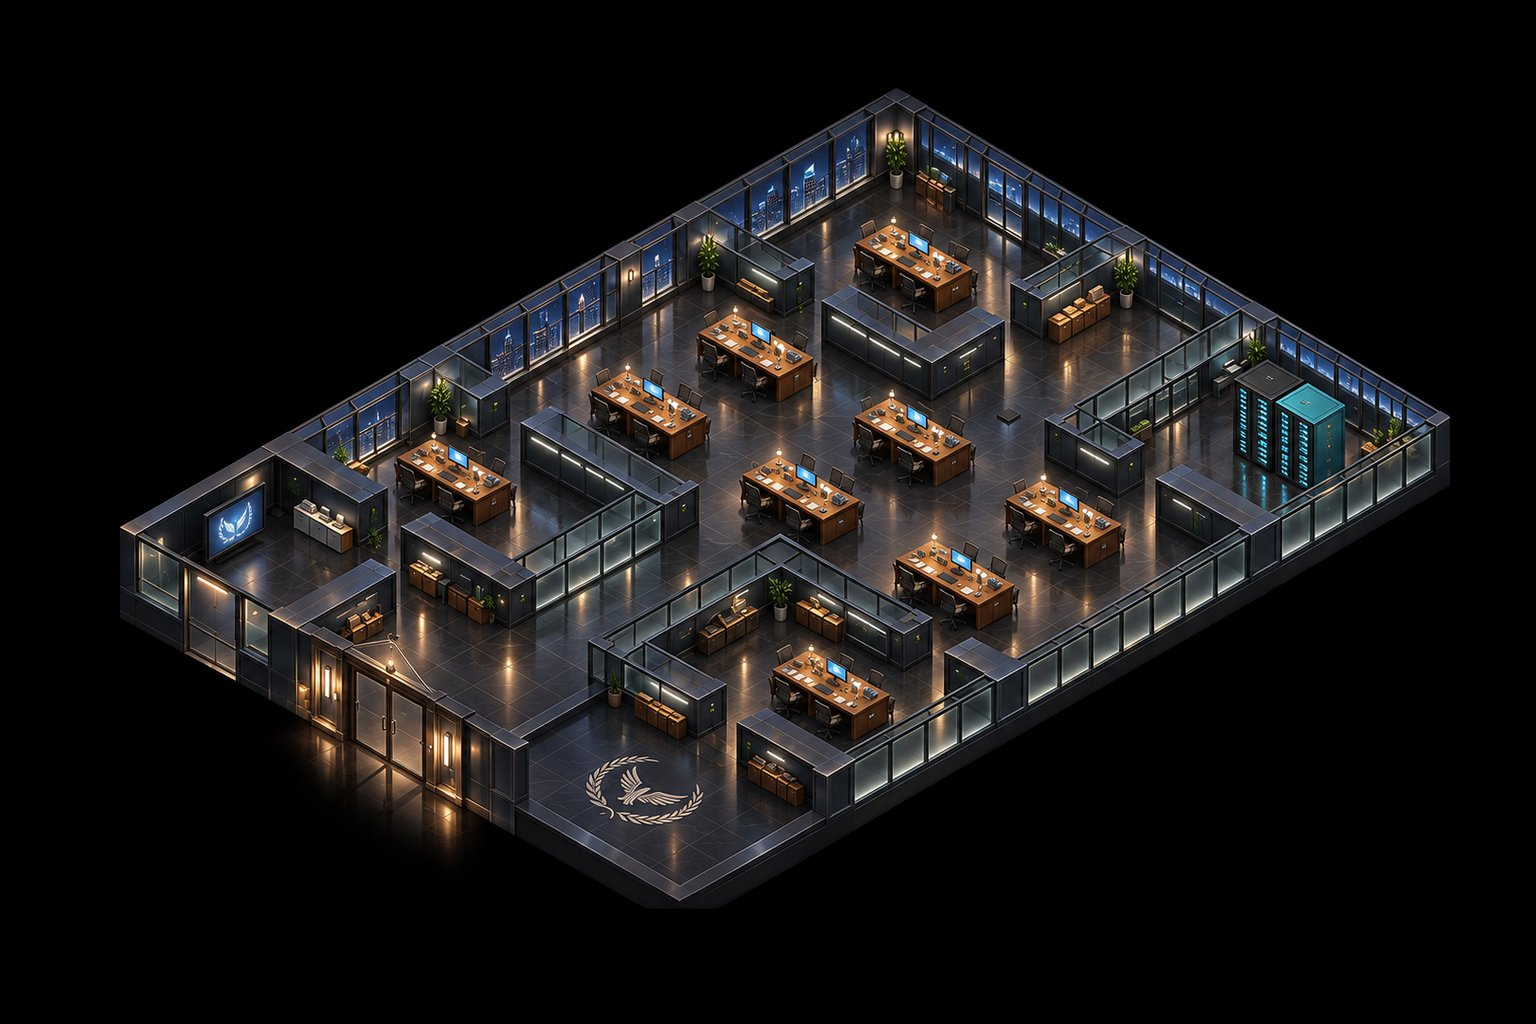
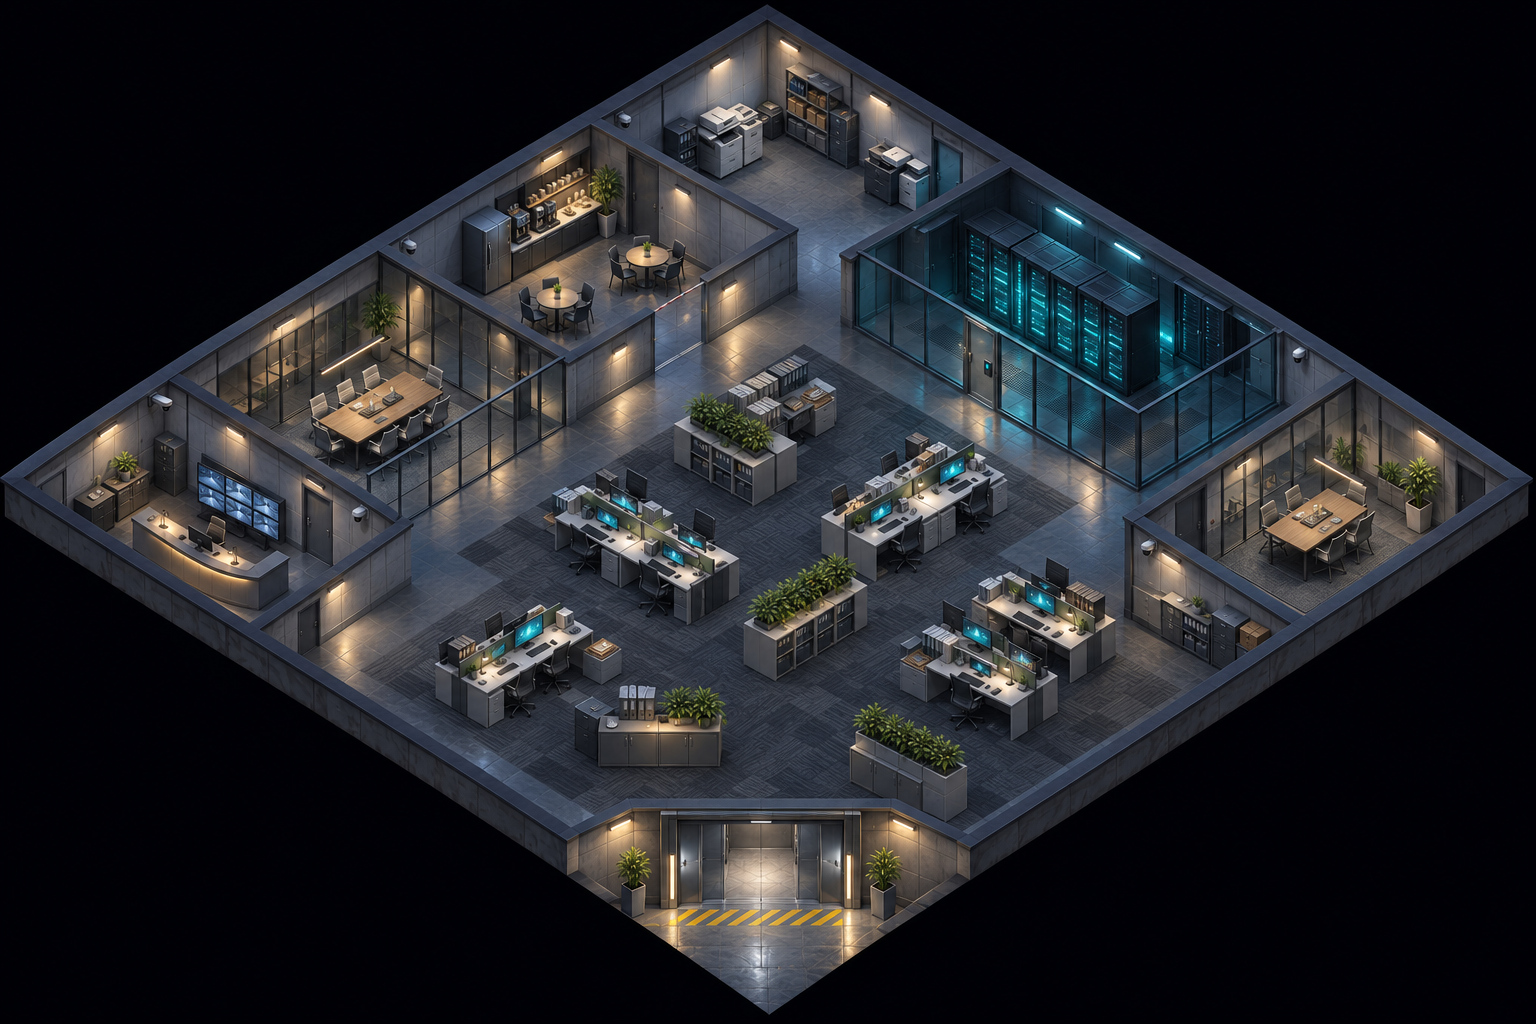
v0.25.0: redesigned maps for story stages 1 and 3
Warehouse and office art applied with collision, doors, furniture and
projection traced from the images; guards and cameras re-laid.

Claude-Session: https://claude.ai/code/session_01YWSFXRBaK3zkDDX76dUHdx

diff --git a/public/index.html b/public/index.html
@@ -655,11 +655,11 @@ var OPD={
 var RULES='<li>바닥을 탭하면 이동, 적을 탭하면 주 행동을 쓴다. 다른 행동은 아래 타일에서 고르고, 고른 채로도 바닥을 탭하면 이동한다.</li><li>사거리 밖이면 요원이 알아서 접근한 뒤 쏜다.</li><li>호박색 빛이 경비병의 시야다. 앉으면 안쪽 짙은 영역에서만 들킨다.</li>';
 var MIS=[
 {title:'혼자 남은 사람',code:'MISSION 01 // RAVEN',copy:'들어간 적<br>없는 걸로.',pre:'항구 3번 창고. 인질 한 명. 레이븐 혼자 간다.',post:['인질은 살렸다.','근데 경비가 너무 많았다. 누가 흘렸다.'],img:'p_raven.jpg',
- goal0:'창고 안쪽의 인질을 구출하라',goal1:'인질과 함께 탈출 지점으로',bg:'bg1.jpg',sk:0.5,wake:60,opaque:'#C',hts:{'#':48,'C':41},
- proj:[40.36966199438018,-42.60500456006069,935,21.18895698200694,21.949252490986424,165,-0.0017002562725694592,-0.0006548161911986566,1],
- MAP:["############","#....#.....#","#....#.....#","#....#.....#","#.CC.###.###","#..........#","#..CC..CC..#","#..........#","####.####..#","#.......#..#","#.CC....#..#","#.......C..#","#..####....#","#.....#.CC.#","#.....#....#","###.###.####","#..........#","#.CC...CC..#","#..........#","############"],
- ops:[{id:'raven',x:1,y:18}],exit:[[1,18]],hostage:{x:8,y:2},
- guards:[{wps:[[5,16],[9,16]]},{wps:[[1,9],[7,9]]},{wps:[[10,9],[10,14]]},{wps:[[1,7],[10,7],[10,5],[1,5]]},{wps:[[6,1],[10,1]]},{wps:[[10,18]],faces:[-HP,-PI*0.75]}],
+ goal0:'창고 안쪽의 인질을 구출하라',goal1:'인질과 함께 탈출 지점으로',bg:'bg1.jpg',sk:0.44,wake:60,opaque:'#',hts:{'#':46,'C':22,'X':40},
+ proj:[36.959282749, -36.331447066, 768.0, 22.803875727, 22.770618448, 54.0, 0.000440241, 0.000377254, 1.0],
+ MAP:["#####################", "#CCCCC#C.C#.....#...#", "#C....#C..#.....#...#", "#.....#...#.....#.CC#", "#####.###.##.####...#", "#CCC#...........#...#", "#C..#...CC.CCC..#...#", "#C..#...CC.CCC..#.###", "#CC.....CC.CC.......#", "#...#......CC...CCC.#", "##.##..CC..CC...CCC.#", "#...#..CC..CC..CCC..#", "#C..#..CC..CC.......#", "#...#..CC.........C.#", "##.##..CC.CC.....CC.#", "#...................#", "#######............##", "#CC.C.#............##", "#C.......C..CC......#", "#C.CC.#..CC.CC..##..#", "#####################"],
+ ops:[{id:'raven',x:18,y:18}],exit:[[18,18],[18,19],[19,18],[19,19]],hostage:{x:13,y:1},
+ guards:[{wps:[[5,5],[5,13]]},{wps:[[7,5],[15,5]]},{wps:[[9,9],[9,15]]},{wps:[[14,6],[14,9]]},{wps:[[13,13]],faces:[3.14,-1.57],ft:5},{wps:[[14,5]],faces:[1.57,3.14],ft:5}],
  brief:'<ul>'+RULES+'<li>맨손 제압은 60초 뒤 깨어난다. 나이프는 사살이다. 둘 다 뒤나 옆에서만 된다.</li><li>쓰러진 적이 발견되면 경보다. 운반해서 숨겨라. 구출한 인질은 몸을 낮추고 따라오지만, 가까이서는 들킨다.</li></ul>'},
 {title:'원거리 지원',code:'MISSION 02 // RAVEN + VIPER',copy:'탑 위는<br>바이퍼 몫.',pre:'산길 검문소. 통신 장비만 끊으면 된다. 문제는 감시탑인데, 거긴 레이븐 손이 안 닿는다.',post:['통신 끊겼다.','이제 저쪽도 우리가 있다는 걸 안다.'],img:'p_viper.jpg',
  goal0:'초소의 통신 장비를 파괴하라',goal1:'두 명 모두 북쪽 도로로 탈출',bg:'bg2.jpg',sk:0.44,wake:90,opaque:'#CRT',hts:{'R':30,'#':38,'C':26,'B':22,'T':160,'X':40},
@@ -669,9 +669,11 @@ var MIS=[
  guards:[{pos:[5,9],tower:true,faces:[HP,0,-HP],ft:4.5},{wps:[[6,12]],faces:[0]},{wps:[[9,12]],faces:[PI]},{wps:[[8,2],[8,6]]},{wps:[[12,8]],faces:[PI,-HP]},{wps:[[3,15],[12,15]]},{wps:[[2,7],[2,12]]}],
  brief:'<ul>'+RULES+'<li>맨 아래 카드로 요원을 바꾼다. 바이퍼의 저격은 사거리 10칸, 조준 1.5초, 탄 3발.</li><li>감시탑 초병은 엄폐물 너머까지 본다. 저격으로만 처리된다.</li><li>플랜에서 레이븐의 제압과 바이퍼의 저격을 함께 예약하면 같은 순간에 실행된다.</li></ul>'},
 {title:'눈이 되는 자',code:'MISSION 03 // RAVEN + GLITCH',copy:'카메라부터<br>재운다.',pre:'헤일로스 위장 법인 사무실. 서버실까지 카메라가 석 대다. 글리치가 끄면 레이븐이 들어간다.',post:['서버 털었다.','명단 맨 위에 우리 이름이 있더라.'],img:'p_glitch.jpg',
- goal0:'서버실의 데이터를 탈취하라',goal1:'두 명 모두 정문 로비로 복귀',bg:'bg3.jpg',sk:0.44,wake:90,opaque:'#',hts:{'#':40,'C':22,'X':70},proj:[36.80598045992676, -35.27835330454804, 896.402394106814, 20.160877411274985, 20.77576903249952, 132.0073664825046, 0.0016096926293314377, -0.0010837434439587327, 1.0],MAP:["################", "#.........#K##.#", "#.CCC##C..#.#X.#", "#.CCC.#C..#....#", "#.....#...#....#", "#######...#..###", "#..............#", "#.CCC.CCC.CCC..#", "#..............#", "#........K.....#", "#.CCC.CCC.CCC..#", "#..............#", "#.####..#####.##", "#....#..#CC....#", "#CC..#..#C.CCC.#", "#....#..#..CCC.#", "#.####..###.##.#", "#C.CCC...CC..C.#", "#..C...........#", "#..C..........K#", "####....##.....#", "################"],
- ops:[{id:'raven',x:5,y:20},{id:'glitch',x:6,y:20}],exit:[[4,20],[5,20],[6,20],[7,20],[4,19],[5,19],[6,19],[7,19]],objective:{x:13,y:2,use:[13,3],label:'서버',verb:'탈취',time:4},
- guards:[{wps:[[1,8],[14,8],[14,9],[1,9]]},{wps:[[1,6],[9,6]]},{wps:[[14,11],[1,11]]},{wps:[[6,14]],faces:[-1.57,3.14]},{wps:[[14,13]],faces:[1.57,3.14]},{wps:[[11,1]],cam:true,faces:[1.57,0],ft:6},{wps:[[9,9]],cam:true,faces:[-1.57,3.14],ft:5},{wps:[[14,19]],cam:true,faces:[3.14,-2.5],ft:5}],
+ goal0:'서버실의 데이터를 탈취하라',goal1:'두 명 모두 정문 로비로 복귀',bg:'bg3.jpg',sk:0.44,wake:90,opaque:'#',hts:{'#':46,'C':22,'X':40},
+ proj:[37.423947637, -36.329930543, 768.0, 23.351134597, 23.317160071, 54.0, 0.000743943, 0.000680558, 1.0],
+ MAP:["#####################", "#CC.C.#.CCCXCCC##...#", "#C....#.......C##.C.#", "#C....#........##.C.#", "#####.####.######.C.#", "#...#...........#...#", "#C.C#...........#.CC#", "#C.........CC...#.###", "#CC.#...CC.CC.......#", "#...#...C..CC..CCC..#", "#####..........CCC..#", "#...#.......CC......#", "#.C.#...CCC.CC......#", "#.C.....CCC......CC.#", "#...#...............#", "#...#...............#", "#######..CC..C.....##", "#.....#..CC.CC.....##", "#...................#", "#.CCC.#.........##..#", "#####################"],
+ ops:[{id:'raven',x:18,y:18},{id:'glitch',x:19,y:18}],exit:[[18,18],[18,19],[19,18],[19,19]],objective:{x:11,y:1,use:[11,2],label:'서버',verb:'탈취',time:4},
+ guards:[{wps:[[5,8],[5,15]]},{wps:[[7,10],[7,15]]},{wps:[[14,6],[14,10]]},{wps:[[13,14]],faces:[3.14,-1.57],ft:5},{wps:[[7,2]],cam:true,faces:[-0.9,1.5],ft:12},{wps:[[1,15]],cam:true,faces:[0,-0.9],ft:6}],
  brief:'<ul>'+RULES+'<li>파란 빛은 감시카메라다. 앉아도 소용없고, 제압도 안 된다.</li><li>글리치의 <b>해킹</b>: 카메라를 탭하면 6칸 안에서 25초간 끈다. 벽 너머도 된다.</li><li>글리치의 <b>교란</b>: 바닥을 탭하면 드론이 소리를 내 4칸 안의 적을 그쪽으로 부른다.</li><li>카메라는 총으로 부술 수도 있다. 권총은 시끄럽다.</li></ul>'},
 {title:'길을 내는 자',code:'MISSION 04 // VIPER + BRICK',copy:'정문은<br>안 쓴다.',pre:'폐광 안쪽에 무기고. 길목마다 사람이 서 있다. 그래서 브릭이 벽으로 간다.',post:['무기고 날렸다.','소리가 좀 컸다.'],img:'p_brick.jpg',
  goal0:'무기고에 폭약을 설치하라',goal1:'두 명 모두 갱도 입구로 복귀',bg:'bg4.jpg',sk:0.44,wake:90,opaque:'RCW',hts:{'R':30,'C':22,'W':30,'X':40},proj:[34.32261999130425, -38.471547620494924, 845.5773331000529, 20.108173550584898, 20.189334253769353, 134.78270027808657, -0.0029330382205890243, 0.0007752523931072309, 1.0],MAP:["RRRRRRRRRRRRRRRR", "R......R.......R", "R......R....XC.R", "R..CC..W.......R", "R......R.......R", "RRR.RRRRRRR.RRRR", "R..............R", "R..CC......CC..R", "R..............R", "RRRRRR.RRRRWRRRR", "R......R.......R", "R......R..CC...R", "R......W.......R", "R......R.......R", "R...CC.R...C...R", "RRR.RRRRRRRR.RRR", "R..............R", "R..............R", "R.CC...CC...CC.R", "R..............R", "R..............R", "RRRRRRRRRRRRRRRR"],
@@ -738,7 +740,7 @@ mirage:{ch:[
 doc:{ch:[
  {b:5,drop:[4],t:'차트',copy:'못 살린 사람은<br>다 기억한다.',pre:'10년 전 사라진 선임 군의관의 차트가 병동에 있다. 사인이 고쳐져 있다.',post:['원본 차트를 찾았다.','죽은 게 아니다. 실려 나갔다.'],ol:'원본 차트',ov:'회수'},
  {b:1,drop:[0,4],t:'이송',copy:'살아 있으면<br>데리러 간다.',pre:'이송 기록은 통신기지에 남아 있다.',post:['기록을 떴다.','행선지는 항구 3번 창고.'],ol:'이송 기록',ov:'복사'},
- {b:0,drop:[2],t:'퇴원',copy:'이번엔<br>걸어서 나간다.',pre:'10년을 갇혀 있던 선임. 닥이 직접 데리고 나온다.',post:['선임은 제 발로 나왔다.','닥은 차트 맨 아래 칸에 "퇴원"이라고 썼다.']}],
+ {b:0,drop:[3],t:'퇴원',copy:'이번엔<br>걸어서 나간다.',pre:'10년을 갇혀 있던 선임. 닥이 직접 데리고 나온다.',post:['선임은 제 발로 나왔다.','닥은 차트 맨 아래 칸에 "퇴원"이라고 썼다.']}],
  end:[['왕진<br>왔습니다.','닥이 가방을 내려놓는다. "어디가 아픈지는 내가 찾아."'],['맥박이<br>빠르네.','손목에 손가락 두 개. 그녀가 웃는다. "이건 처방이 따로 없어."'],['오늘은<br>안 재운다.','마취 다트는 가방에 그대로 있었다. 아침까지.']]}
 };
 var SIDX={};
@@ -756,7 +758,7 @@ Object.keys(STORY).forEach(function(id){
     m.bc=['nokill','noinv','noload'][ci];m.story={id:id,ci:ci};SIDX[id].push(MIS.length);MIS.push(m);
   });
 });
-var VERSION='0.24.1';
+var VERSION='0.25.0';
 var PROG={c:{},s:{},b:{},end:{},g:{},n:{},pt:0,name:'',vol:1,all:false};
 try{var pj=JSON.parse(localStorage.getItem('s6prog')||'null');if(pj)for(var pk in pj)PROG[pk]=pj[pk];}catch(e){}
 function saveProg(){try{localStorage.setItem('s6prog',JSON.stringify(PROG));}catch(e){}}

diff --git a/tools/map/trace_story/sm.py b/tools/map/trace_story/sm.py
@@ -1,0 +1,48 @@
+import st,json
+from PIL import Image
+def blank(n):
+    c,r=st.CFG[n][:2];M=[['.']*c for _ in range(r)]
+    return M
+def put(M,cells,ch):
+    for (x,y) in cells:
+        if 0<=y<len(M) and 0<=x<len(M[0]):M[y][x]=ch
+def R(x0,y0,x1,y1):return [(x,y) for y in range(min(y0,y1),max(y0,y1)+1) for x in range(min(x0,x1),max(x0,x1)+1)]
+def border(M):
+    c,r=len(M[0]),len(M);put(M,R(0,0,c-1,0)+R(0,r-1,c-1,r-1)+R(0,0,0,r-1)+R(c-1,0,c-1,r-1),'#')
+def notch(M,k=35,door=((17,18),(18,17)),apron=((18,18),(18,19),(19,18),(19,19))):
+    c,r=len(M[0]),len(M)
+    for y in range(r):
+        for x in range(c):
+            if x+y>=k:M[y][x]='#'
+    put(M,door,'.');put(M,apron,'.')
+OUT={}
+def check(n):
+    o=OUT[n];M=o['MAP'];c,r=len(M[0]),len(M);seen=set();s=[o['start'][0]]
+    while s:
+        x,y=s.pop()
+        if (x,y) in seen or not(0<=x<c and 0<=y<r) or M[y][x] not in '.W':continue
+        seen.add((x,y));s+=[(x+1,y),(x-1,y),(x,y+1),(x,y-1)]
+    un=[(x,y) for y in range(r) for x in range(c) if M[y][x]=='.' and (x,y) not in seen]
+    return tuple(o['use']) in seen,len(seen),un
+def show(n,S=2,half=None):
+    M=[''.join(r) for r in OUT[n]['MAP']];print('\n'.join(M));print(check(n))
+    st.grid(n,'v%d'%n,S=S,MAP=M,lab=True)
+    im=Image.open('v%d.jpg'%n);W,H=im.size
+    im.crop((0,0,W,H//2+60)).save('v%d_a.jpg'%n,quality=80);im.crop((0,H//2-60,W,H)).save('v%d_b.jpg'%n,quality=80)
+# ---------- 1 warehouse
+M=blank(1);border(M);notch(M)
+put(M,R(1,4,4,4)+R(4,4,4,7)+R(4,9,4,14)+R(1,10,3,10)+R(1,14,3,14)+R(1,16,6,16)+R(6,16,6,19)+R(6,1,6,4)+R(6,4,8,4)+R(10,1,10,4)+R(10,4,15,4)+R(16,1,16,7)+R(18,7,19,7),'#')
+put(M,[(2,10),(2,14),(6,18),(12,4)],'.')
+put(M,R(7,10,8,14)+R(8,6,9,8)+R(11,6,12,8)+[(13,6),(13,7)]+R(11,9,12,12)+[(10,14),(11,14),(9,18),(9,19),(10,19)]+R(12,18,13,19)+R(16,9,17,11)+[(18,9),(18,10),(15,11),(17,14),(18,13),(18,14),(18,3),(19,3)],'C')
+put(M,[(1,18),(1,19),(3,19),(4,19),(1,17),(2,17),(4,17),(1,12),(1,5),(1,6),(1,7),(1,8),(2,5),(3,5),(2,8),(1,1),(1,2),(2,1),(3,1),(4,1),(5,1),(7,1),(7,2),(9,1)],'C')
+OUT[1]=dict(MAP=M,start=[(18,18)],use=(13,2),hostage=(13,1))
+# ---------- 3 office
+M=blank(3);border(M);notch(M)
+put(M,R(1,4,4,4)+R(4,4,4,6)+R(4,8,4,15)+R(1,10,3,10)+R(1,16,6,16)+R(6,16,6,19)+R(6,1,6,4)+R(6,4,15,4)+R(15,1,15,4)+R(16,1,16,7)+R(18,7,19,7),'#')
+put(M,[(4,13),(6,18),(10,4)],'.')
+put(M,[(8,8),(8,9),(9,8)]+R(8,12,10,13)+R(11,7,12,9)+R(12,11,13,12)+R(9,16,10,17)+R(15,9,17,10)+[(12,17),(13,16),(13,17),(17,13),(18,13),(2,19),(3,19),(4,19),(2,12),(2,13),(1,6),(1,7),(1,8),(3,6),(2,8),(1,1),(1,2),(2,1),(4,1),(1,3),(18,2),(18,3),(18,4),(18,6),(19,6)],'C')
+put(M,[(8,1),(9,1),(10,1),(12,1),(13,1),(14,1),(14,2)],'C');M[1][11]='X'
+OUT[3]=dict(MAP=M,start=[(18,18),(19,18)],use=(11,2),obj=(11,1))
+if __name__=='__main__':
+    import sys
+    for n in map(int,sys.argv[1:]):show(n)

diff --git a/tools/map/trace_story/st.py b/tools/map/trace_story/st.py
@@ -1,0 +1,35 @@
+import numpy as np
+from PIL import Image,ImageDraw,ImageFont,ImageFilter
+F=ImageFont.truetype('/usr/share/fonts/truetype/dejavu/DejaVuSans-Bold.ttf',13)
+def homog(src,dst):
+    A=[];b=[]
+    for (x,y),(u,v) in zip(src,dst):
+        A.append([x,y,1,0,0,0,-u*x,-u*y]);b.append(u);A.append([0,0,0,x,y,1,-v*x,-v*y]);b.append(v)
+    return [float(v) for v in np.linalg.solve(np.array(A,float),np.array(b,float))]+[1.0]
+# cols, rows, wall height, wall-top diamond T,L,R,B (outer edge)
+CFG={1:(21,21,46,(768,8),(5,482),(1530,482),(768,948)),
+     3:(21,21,46,(768,8),(5,490),(1530,490),(768,958)),
+     2:(21,21,0,(768,54),(5,528),(1530,528),(768,994)),
+     4:(21,21,46,(768,8),(5,482),(1530,482),(768,948)),
+     5:(21,21,46,(768,8),(5,482),(1530,482),(768,948))}
+def H(n):
+    c,r,h,T,L,R,B=CFG[n];s=lambda p:(p[0],p[1]+h);return homog([(0,0),(0,r),(c,0),(c,r)],[s(T),s(L),s(R),s(B)])
+def P(h,x,y,z=0,S=1):
+    w=h[6]*x+h[7]*y+1;return (S*(h[0]*x+h[1]*y+h[2])/w,S*((h[3]*x+h[4]*y+h[5])/w-z))
+def grid(n,out,z=0,S=1,lab=False,MAP=None,quads=False):
+    c,r=CFG[n][:2];h=H(n);im=Image.open('x/bg%d.jpg'%n).convert('RGB');im=im.resize((1536*S,1024*S),Image.LANCZOS);d=ImageDraw.Draw(im)
+    for i in range(c+1):d.line([P(h,i,0,z,S),P(h,i,r,z,S)],fill=(255,255,0),width=1)
+    for j in range(r+1):d.line([P(h,0,j,z,S),P(h,c,j,z,S)],fill=(255,255,0),width=1)
+    COL={'#':(255,60,90),'C':(255,190,0),'B':(60,255,140),'X':(0,255,255),'W':(255,255,0)}
+    for j in range(r):
+        for i in range(c):
+            ch=MAP[j][i] if MAP else '.'
+            if MAP and ch!='.':
+                zz=CFG[n][2] if ch=='#' or ch=='W' else 0
+                d.polygon([P(h,i+.12,j+.12,zz,S),P(h,i+.88,j+.12,zz,S),P(h,i+.88,j+.88,zz,S),P(h,i+.12,j+.88,zz,S)],outline=COL.get(ch,(255,255,255)),width=2)
+            if lab and (not MAP or ch=='.'):
+                p=P(h,i+.5,j+.5,z,S);d.text((p[0]-15,p[1]-7),'%d,%d'%(i,j),font=F,fill=(255,255,255),stroke_width=2,stroke_fill=(0,0,0))
+    if quads:
+        W,Hh=1536*S,1024*S
+        for k,(x0,y0) in enumerate([(W//2-800,0),(0,Hh//2-525),(W-1600,Hh//2-525),(W//2-800,Hh-1050)]):im.crop((x0,y0,x0+1600,y0+1050)).save('%s_%d.jpg'%(out,k),quality=80)
+    else:im.save(out+'.jpg',quality=85)

diff --git a/tools/map/trace_story/ins.py b/tools/map/trace_story/ins.py
@@ -1,0 +1,23 @@
+import io,json,re,shutil,sm,st
+G={1:"[{wps:[[5,5],[5,13]]},{wps:[[7,5],[15,5]]},{wps:[[9,9],[9,15]]},{wps:[[14,6],[14,9]]},{wps:[[13,13]],faces:[3.14,-1.57],ft:5},{wps:[[14,5]],faces:[1.57,3.14],ft:5}]",
+   3:"[{wps:[[5,8],[5,15]]},{wps:[[7,10],[7,15]]},{wps:[[14,6],[14,10]]},{wps:[[13,14]],faces:[3.14,-1.57],ft:5},{wps:[[7,2]],cam:true,faces:[-0.9,1.5],ft:12},{wps:[[1,15]],cam:true,faces:[0,-0.9],ft:6}]"}
+OPS={1:['raven'],3:['raven','glitch']}
+TITLE={1:'혼자 남은 사람',3:'눈이 되는 자'}
+def install(ns):
+    p='/home/claude/silent_six/public/index.html';s=io.open(p,encoding='utf8').read()
+    for n in ns:
+        o=sm.OUT[n];M=[''.join(r) for r in o['MAP']];a=s.index("{title:'%s'"%TITLE[n]);b=s.index("{title:'",a+5)
+        blk=s[a:b]
+        i=blk.index("bg:'bg%d.jpg'"%n);j=blk.index(" brief:")
+        st_=o['start'];ops=','.join("{id:'%s',x:%d,y:%d}"%(OPS[n][k],st_[k][0],st_[k][1]) for k in range(len(OPS[n])))
+        ex="[[18,18],[18,19],[19,18],[19,19]]"
+        old=blk[i:j];wake=re.search(r'wake:(\d+)',old).group(1)
+        if 'hostage' in o:tgt="hostage:{x:%d,y:%d}"%o['hostage']
+        else:
+            ob=re.search(r'objective:\{[^}]*\}',old).group(0);ob=re.sub(r'x:\d+,y:\d+,use:\[\d+,\d+\]','x:%d,y:%d,use:[%d,%d]'%(o['obj']+tuple(o['use'])),ob);tgt=ob
+        new="bg:'bg%d.jpg',sk:0.44,wake:%s,opaque:'#',hts:{'#':46,'C':22,'X':40},\n proj:%s,\n MAP:%s,\n ops:[%s],exit:%s,%s,\n guards:%s,\n"%(n,wake,json.dumps([round(v,9) for v in st.H(n)]),json.dumps(M),ops,ex,tgt,G[n])
+        s=s[:a]+blk[:i]+new+blk[j:]+s[b:]
+        shutil.copy('x/bg%d.jpg'%n,'/home/claude/silent_six/public/bg%d.jpg'%n)
+    io.open(p,'w',encoding='utf8').write(s)
+if __name__=='__main__':
+    import sys;install([int(a) for a in sys.argv[1:]])

diff --git a/tools/map/trace_story/inv.py b/tools/map/trace_story/inv.py
@@ -1,0 +1,14 @@
+import st,numpy as np
+def inv(n,pts,z=None):
+    z=st.CFG[n][2] if z is None else z;Hi=np.linalg.inv(np.array(st.H(n)).reshape(3,3));o=[]
+    for (x,y) in pts:
+        v=Hi@np.array([x,y+z,1.0]);o.append('(%.1f,%.1f)'%(v[0]/v[2],v[1]/v[2]))
+    return ' '.join(o)
+if __name__=='__main__':
+    S={'W1':[(652,128),(792,214)],'W2':[(790,222),(660,292)],'W3':[(618,322),(432,440)],'S4':[(398,243),(560,350)],'S5':[(243,345),(378,440)],'S6':[(185,378),(420,522)],'W7':[(420,525),(262,628)],
+       'W8':[(850,255),(1000,170)],'W9':[(850,255),(950,330)],'W10':[(1000,330),(1140,240)],'W11':[(1000,330),(1095,400)],'F16':[(1370,390),(1140,525)],'F7':[(1140,580),(1290,625)],
+       'cageR':[(1300,345),(1215,465)],'cageFront':[(1060,305),(1215,420)]}
+    for k,v in S.items():print(k,inv(1,v))
+    G={'chair':[(1197,378)],'forklift':[(1330,540)],'cont1':[(860,470),(980,420),(900,540)],'cont2':[(940,640),(1100,590),(1000,720)],'rackL':[(500,510),(655,410),(520,600),(660,520)],'rackM1':[(760,400),(875,350),(760,490),(880,440)],'rackM2':[(740,535),(875,480),(740,640),(880,570)],
+       'crates_c':[(620,600),(680,600),(610,645)],'palletBL':[(395,680),(480,650),(440,735)],'tarp':[(500,740),(590,720),(540,800),(615,770)],'crBR':[(880,740),(960,730),(930,790)],'pal2':[(980,800)],'crR':[(1040,680),(1110,660)],'barrels':[(965,515),(1020,490)],'desk1':[(110,485)],'desk2':[(215,555)],'cab':[(290,525),(175,440),(225,455)],'mon':[(345,350)],'shelfroom':[(480,225),(580,190),(620,130),(680,200),(540,285)],'work':[(720,110),(800,125),(860,165),(905,180)],'small':[(915,255),(975,225)]}
+    for k,v in G.items():print(k,inv(1,v,0))

diff --git a/docs/CHANGELOG.md b/docs/CHANGELOG.md
@@ -1,5 +1,12 @@
 # 변경 기록
 
+## v0.25.0 — 2026-11-19
+- 스토리 맵 리디자인 적용 1차: 01 혼자 남은 사람(항구 창고), 03 눈이 되는 자(위장 법인 사무실). 그림을 분석해 21×21 격자의 벽 · 가구 · 문 · 투영을 새로 잡았다(`tools/map/trace_story`).
+  - 01: 하역장 문으로 진입, 오른쪽 위 철망 우리의 인질 구출. 경비 6명.
+  - 03: 엘리베이터 로비로 진입, 오른쪽 위 유리 서버실의 서버. 경비 4명 + 카메라 2대.
+- 같은 맵을 쓰는 로맨틱 6판에도 적용. 29개 미션 자동 클리어 확인.
+- 02 통신 기지 · 04 폐광 · 05 저택은 아직 예전 맵이다(새 그림의 윤곽이 격자 밖으로 나가고 대각선 벽이 있어 따로 작업).
+
 ## v0.24.1 — 2026-11-19
 - 블러디 크리스마스 환경 변화 적용.
   - 2 조차장: 조명탑 2기를 글리치가 해킹하면 25초 동안 꺼진다.
